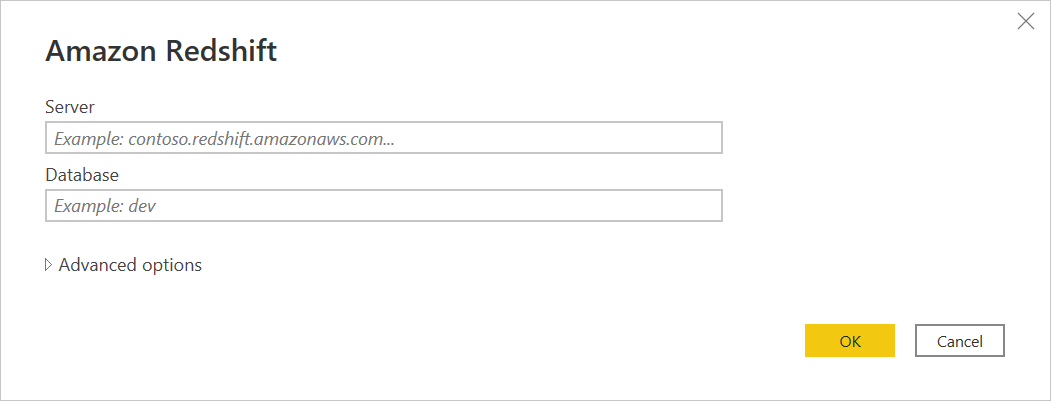
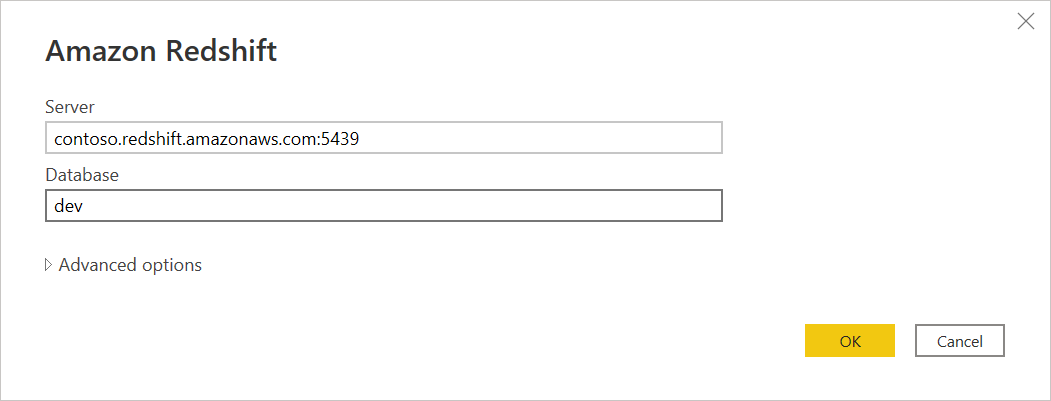
Minor fix to image and procedures

Changed region(s): [[0.0304, 0.4489, 0.7003, 0.5686], [0.0304, 0.3292, 0.3654, 0.3591]]

diff --git a/powerquery-docs/Connectors/Snowflake.md b/powerquery-docs/Connectors/Snowflake.md
@@ -65,7 +65,7 @@ To make the connection to a **Snowflake** computing warehouse, take the followin
 
    ![Screenshot of the Navigator with the test schema database open and the DimProduct table selected.](./media/Snowflake/navigator-desktop.png)
 
-7. Select **Import** to import data directly into Power BI, or select **DirectQuery**. More information: [Use DirectQuery in Power BI Desktop](/power-bi/connect-data/desktop-use-directquery)
+7. Select **Import** to import data directly into Power BI, or select **DirectQuery**, then select **OK**. More information: [Use DirectQuery in Power BI Desktop](/power-bi/connect-data/desktop-use-directquery)
 
    >[!Note]
    >Azure Active Directory (Azure AD) Single Sign-On (SSO) only supports DirectQuery.

diff --git a/powerquery-docs/Connectors/AmazonRedshift.md b/powerquery-docs/Connectors/AmazonRedshift.md
@@ -62,7 +62,7 @@ To connect to Amazon Redshift data:
 
 5. Once you've selected the elements you want, then either select **Load** to load the data or **Transform Data** to continue transforming the data in Power Query Editor.
 
-6. Select either the **Import** or **DirectQuery** data connectivity mode.
+6. Select either the **Import** or **DirectQuery** data connectivity mode, and then select **OK**.
 
    ![Image of connection settings, with Import and DirectQuery as the settings to select.](./media/amazon-redshift/connection-settings.png)
 
